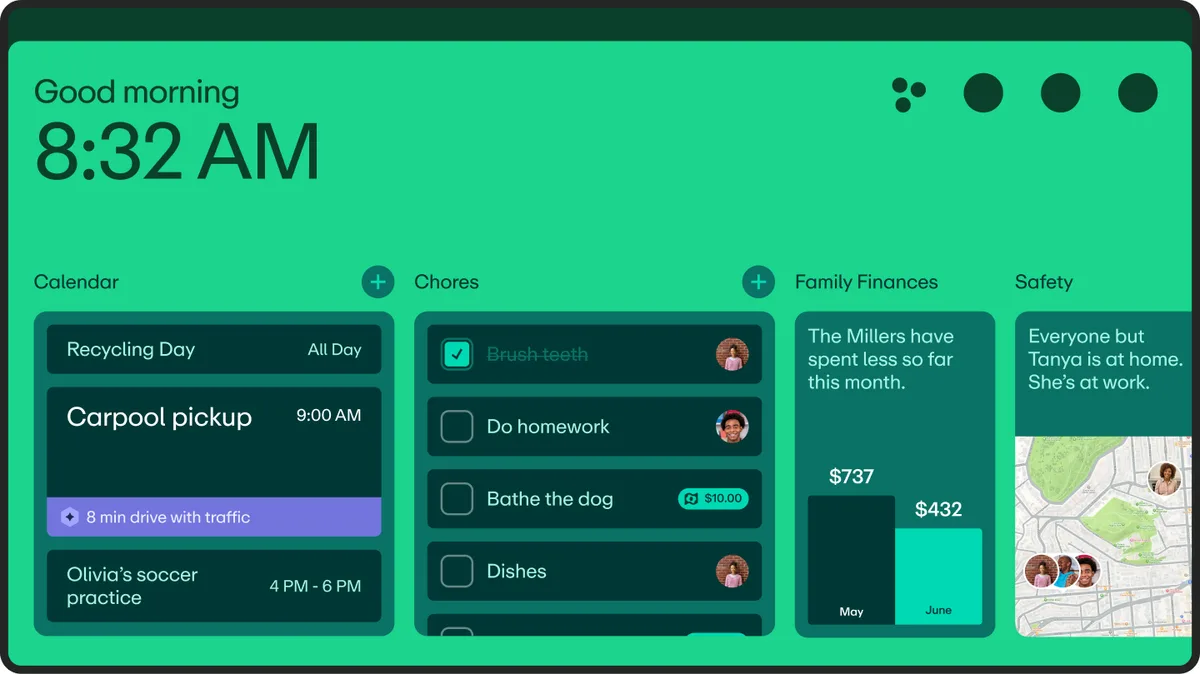
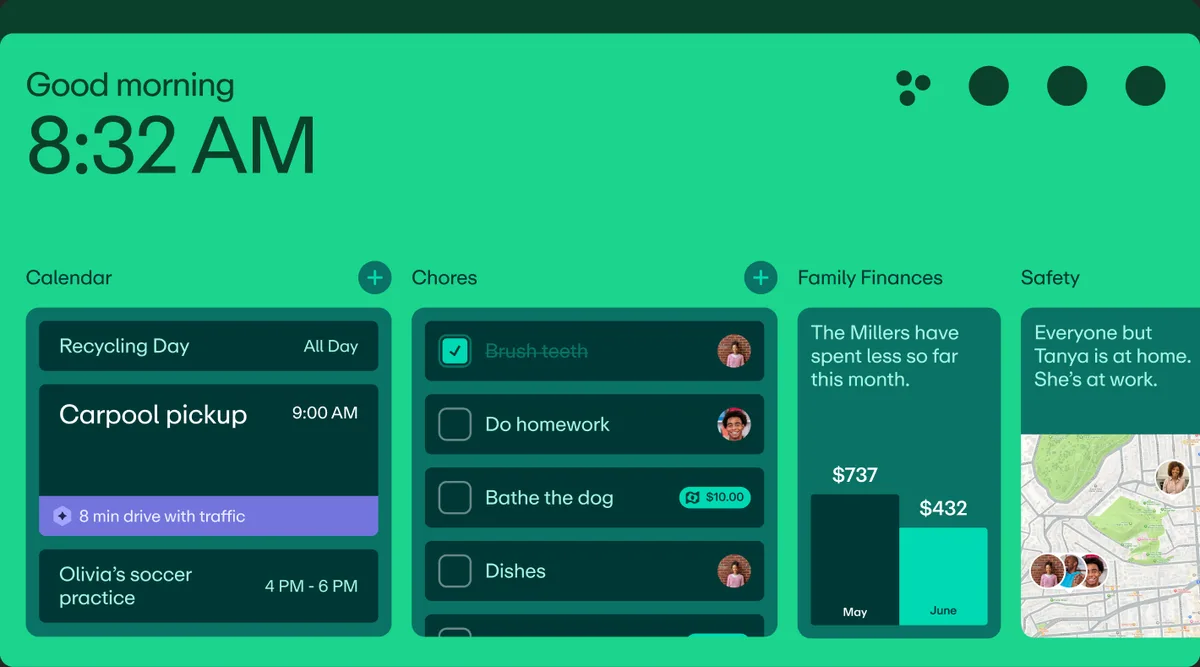
CASES: rail pass 2 — Jake's labels, uniform paper, the sketch comes alive
Labels now verbatim from Jake's renamed Figma sections (Sketch → Proof
of Concept → Wireframes → Hi-Fi Prototype → Color Explorations →
On-Device Testing → Ship). Every stage declares its exact export ratio
and the stack matches it, so the frame hugs each artwork with the same
10px of paper on all sides (the four halo'd exports recropped). The
sketch stage is no longer a flat image: 14 transparent cutouts on the
original Figma coordinates, each on its own slow drift loop — paused
while other stages show, stilled under prefers-reduced-motion. Also:
literal &rsquo; in the hero meta → real apostrophe.

Changed region(s): [[0.0, 0.0, 1.0, 1.0], [0.74, 0.09, 0.7708, 0.1799]]

diff --git a/src/components/case/EvolutionRail.tsx b/src/components/case/EvolutionRail.tsx
@@ -14,22 +14,95 @@ import styles from './case.module.css'
    (hero → sections → footer), never scroll-linked animation: safe in a
    hidden tab and under prefers-reduced-motion. The scroller is the
    WINDOW body, not the viewport — sticky anchors to it on its own.
-   Assets export from Figma "scroller viz" (201161-12); each slot is
-   swappable when Jake revises (§2 law). */
+   Assets export from Figma "scroller viz" (201161-12); labels are
+   Jake's own section names there; each slot is swappable when he
+   revises (§2 law). Every stage declares its exact export ratio so the
+   frame hugs the artwork with the same 10px of paper on all sides. */
 
 const DIR = '/case/family-hub/evo'
 
-const STAGES = [
-  { file: 'stage-00.webp', v: 'v0.1', label: 'Sketch', alt: 'Concept collage: a big pink clock, weather, calendar and home glyphs, family portrait avatars, one checked-off chore.' },
-  { file: 'stage-01.webp', v: 'v0.2', label: 'Proto', alt: 'First clickable dashboard: dark shell, the family agenda blocked in as bright color bars.' },
-  { file: 'stage-02.webp', v: 'v0.3', label: 'Proto', alt: 'Prototype month calendar: the whole household on one grid.' },
-  { file: 'stage-03.webp', v: 'v0.4', label: 'Hi-fi', alt: 'Hi-fi build in Greenlight green: the morning brief with a school-run map.' },
-  { file: 'stage-04.webp', v: 'v0.5', label: 'Board build', alt: 'The hi-fi ambient screen that went to the board: good morning, 8:32 AM.' },
-  { file: 'stage-05.webp', v: 'v0.6', label: 'Rein-in', alt: 'The color pullback: a light dashboard that spends color only where it means something.' },
-  { file: 'stage-06.webp', v: 'v0.7', label: 'Shipped UI', alt: 'Near-launch dashboard: chats, chores and calendar as calm cards.' },
-  { file: 'stage-07.webp', v: 'v0.9', label: 'On device', alt: 'The launch UI rendered on the 15.6-inch device frame.' },
-  { file: 'stage-08.webp', v: 'v1.0', label: 'Ship', alt: 'Family Hub as shipped: the today view on the physical device.' },
+type Stage = {
+  v: string
+  label: string
+  ratio: string
+  alt: string
+  /** stage image; the sketch stage renders the living scene instead */
+  file?: string
+}
+
+const STAGES: Stage[] = [
+  { v: 'v0.1', label: 'Sketch', ratio: '1089 / 490', alt: 'Concept collage: a big pink clock, weather, calendar and home glyphs, family portrait avatars, one checked-off chore — all gently afloat.' },
+  { file: 'stage-01.webp', v: 'v0.2', label: 'Proof of Concept', ratio: '1420 / 789', alt: 'First clickable dashboard: dark shell, the family agenda blocked in as bright color bars.' },
+  { file: 'stage-02.webp', v: 'v0.3', label: 'Proof of Concept', ratio: '1420 / 789', alt: 'Proof-of-concept month calendar: the whole household on one grid.' },
+  { file: 'stage-03.webp', v: 'v0.4', label: 'Wireframes', ratio: '1440 / 808', alt: 'Wireframe pass in Greenlight green: the morning brief with a school-run map.' },
+  { file: 'stage-04.webp', v: 'v0.5', label: 'Wireframes', ratio: '1420 / 789', alt: 'Wireframe ambient screen: good morning, 8:32 AM.' },
+  { file: 'stage-05.webp', v: 'v0.6', label: 'Hi-Fi Prototype', ratio: '1420 / 789', alt: 'Hi-fi prototype: the light dashboard taking its shipped shape.' },
+  { file: 'stage-06.webp', v: 'v0.7', label: 'Color Explorations', ratio: '1280 / 800', alt: 'Color exploration: chats, chores and calendar as calm cards, color only where it means something.' },
+  { file: 'stage-07.webp', v: 'v0.9', label: 'On-Device Testing', ratio: '1164 / 705', alt: 'The launch UI under test on the 15.6-inch device frame.' },
+  { file: 'stage-08.webp', v: 'v1.0', label: 'Ship', ratio: '1164 / 705', alt: 'Family Hub as shipped: the today view on the physical device.' },
 ]
+
+/* The living sketch — Jake's concept collage as cutouts on a virtual
+   1089×490 canvas (coords straight from the Figma group), each adrift
+   on its own slow loop. Deltas are screen-px and small on purpose:
+   ambient, not a parlor trick. */
+
+const SK = { w: 1089, h: 490 }
+
+type Bit = {
+  f: string
+  x: number
+  y: number
+  w: number
+  dx: number
+  dy: number
+  dr: number
+  dur: number
+  delay: number
+}
+
+const BITS: Bit[] = [
+  { f: 'head', x: 0, y: 21, w: 351, dx: 1, dy: 3, dr: 0, dur: 11, delay: -4 },
+  { f: 'week', x: 182, y: 178, w: 105, dx: -3, dy: 2, dr: -1, dur: 9, delay: -2 },
+  { f: 'cal', x: 516, y: 92, w: 86, dx: 2, dy: -4, dr: 1.5, dur: 8, delay: -6 },
+  { f: 'house', x: 361, y: 153, w: 64, dx: -2, dy: -3, dr: -1.5, dur: 10, delay: -1 },
+  { f: 'bell', x: 709, y: 223, w: 37, dx: 3, dy: -2, dr: 2, dur: 7, delay: -3 },
+  { f: 'mom', x: 273, y: 255, w: 162, dx: 3, dy: 4, dr: 0.8, dur: 12, delay: -7 },
+  { f: 'dad', x: 456, y: 214, w: 92, dx: -3, dy: 3, dr: -1, dur: 9.5, delay: -5 },
+  { f: 'girl', x: 456, y: 336, w: 125, dx: 2, dy: -3, dr: 1, dur: 11.5, delay: -9 },
+  { f: 'boy', x: 587, y: 255, w: 100, dx: -2, dy: -4, dr: -0.8, dur: 10.5, delay: -2 },
+  { f: 'temp', x: 100, y: 316, w: 135, dx: 3, dy: -2, dr: 1, dur: 9, delay: -8 },
+  { f: 'checklist', x: 386, y: 432, w: 58, dx: -3, dy: 2, dr: -2, dur: 8.5, delay: -4 },
+  { f: 'pin', x: 602, y: 389, w: 49, dx: 2, dy: 3, dr: 2, dur: 7.5, delay: -6 },
+  { f: 'check', x: 726, y: 343, w: 70, dx: -2, dy: -2, dr: -1.5, dur: 8, delay: -1 },
+  { f: 'task', x: 826, y: 364, w: 263, dx: 3, dy: 2, dr: 0.5, dur: 10, delay: -5 },
+]
+
+function SketchScene({ on }: { on: boolean }) {
+  return (
+    <div className={styles.railScene} data-on={on ? 'true' : undefined} aria-hidden="true">
+      {BITS.map((b) => (
+        <img
+          key={b.f}
+          src={`${DIR}/sketch/${b.f}.webp`}
+          alt=""
+          draggable={false}
+          className={styles.railBit}
+          style={{
+            left: `${(b.x / SK.w) * 100}%`,
+            top: `${(b.y / SK.h) * 100}%`,
+            width: `${(b.w / SK.w) * 100}%`,
+            ['--dx' as string]: `${b.dx}px`,
+            ['--dy' as string]: `${b.dy}px`,
+            ['--dr' as string]: `${b.dr}deg`,
+            ['--dur' as string]: `${b.dur}s`,
+            ['--delay' as string]: `${b.delay}s`,
+          }}
+        />
+      ))}
+    </div>
+  )
+}
 
 export function EvolutionRail() {
   const ref = useRef<HTMLDivElement>(null)
@@ -103,21 +176,27 @@ export function EvolutionRail() {
           <span className={styles.railVer}>{cur.v}</span>
         </div>
         <div className={styles.railView} role="img" aria-label={`${cur.v} · ${cur.label}. ${cur.alt}`}>
-          {STAGES.map((s, i) => (
-            <img
-              key={s.file}
-              src={`${DIR}/${s.file}`}
-              alt=""
-              aria-hidden="true"
-              draggable={false}
-              data-on={i === stage ? 'true' : undefined}
-            />
-          ))}
+          <div className={styles.railStack} style={{ aspectRatio: cur.ratio }}>
+            <SketchScene on={stage === 0} />
+            {STAGES.map(
+              (s, i) =>
+                s.file && (
+                  <img
+                    key={s.file}
+                    src={`${DIR}/${s.file}`}
+                    alt=""
+                    aria-hidden="true"
+                    draggable={false}
+                    data-on={i === stage ? 'true' : undefined}
+                  />
+                ),
+            )}
+          </div>
         </div>
         <div className={styles.railFoot}>
           {STAGES.map((s, i) => (
             <button
-              key={s.file}
+              key={s.v}
               className={styles.railTick}
               aria-label={`${s.v} · ${s.label}`}
               aria-current={i === stage ? 'step' : undefined}

diff --git a/src/components/case/case.module.css b/src/components/case/case.module.css
@@ -554,15 +554,20 @@
 }
 
 .railView {
-  position: relative;
-  aspect-ratio: 16 / 10;
-  /* the artwork's own paper — every export sits on white (sampled from
-     the Figma frames), so the letterbox disappears into the image */
+  /* the artwork's own paper (every export sits on white) — a uniform
+     10px of it on all sides; the stack below matches each stage's
+     exact export ratio so no letterbox ever spoils the margin */
+  padding: 10px;
   background: #fff;
   overflow: hidden;
 }
 
-.railView img {
+.railStack {
+  position: relative;
+  transition: aspect-ratio 0.3s ease;
+}
+
+.railStack > img {
   position: absolute;
   inset: 0;
   width: 100%;
@@ -572,13 +577,46 @@
   transition: opacity 0.28s ease-out;
 }
 
-.railView img[data-on] {
+.railStack > img[data-on] {
   opacity: 1;
 }
 
+/* the living sketch — cutouts adrift on slow, staggered loops */
+.railScene {
+  position: absolute;
+  inset: 0;
+  opacity: 0;
+  transition: opacity 0.28s ease-out;
+}
+
+.railScene[data-on] {
+  opacity: 1;
+}
+
+.railBit {
+  position: absolute;
+  animation: railDrift var(--dur) ease-in-out var(--delay) infinite alternate;
+}
+
+/* faded out ≠ free: don't run 14 composited loops behind other stages */
+.railScene:not([data-on]) .railBit {
+  animation-play-state: paused;
+}
+
+@keyframes railDrift {
+  to {
+    transform: translate(var(--dx), var(--dy)) rotate(var(--dr));
+  }
+}
+
 @media (prefers-reduced-motion: reduce) {
-  .railView img {
+  .railStack > img,
+  .railScene {
     transition: none;
+  }
+
+  .railBit {
+    animation: none;
   }
 }
 
